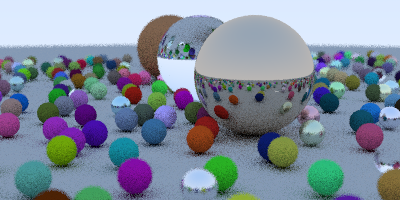
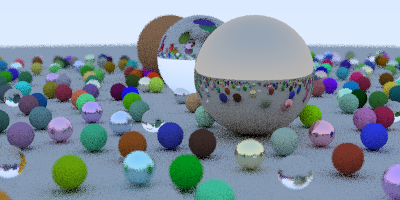
Trying to remove branching so the compiler would auto vectorize
Not working yet at least though. Maybe I need to do manual
intrinsics here. At least this is a step in the right direction.

diff --git a/src/hitdetection.cpp b/src/hitdetection.cpp
@@ -29,6 +29,36 @@ hit(const World& world, const Ray& ray, f32 tMin, f32 tMax, HitInfo& info) {
         f32 c = HMM_Dot(oc, oc) - sphere->radius * sphere->radius;
 
         f32 discriminant = b * b - a * c;
+        f32 discSqrt = sqrt(discriminant);
+        f32 temp;
+
+        temp = (-b - discSqrt) / a;
+        bool mask1 = (temp < closestSoFar && temp > tMin);
+        HitInfo tempInfo1 = tempInfo;
+        tempInfo1.t = temp;
+        tempInfo1.point = pointOnRay(ray, temp);
+        tempInfo1.normal = (tempInfo1.point - sphere->center) / sphere->radius;
+
+        temp = (-b + discSqrt) / a;
+        bool mask2 = (temp < closestSoFar && temp > tMin);
+        HitInfo tempInfo2 = tempInfo;
+        tempInfo2.t = temp;
+        tempInfo2.point = pointOnRay(ray, temp);
+        tempInfo2.normal = (tempInfo2.point - sphere->center) / sphere->radius;
+
+#if 1
+        tempInfo = (discriminant > 0)
+            ? (mask1
+                ? tempInfo1
+                : (mask2
+                    ? tempInfo2
+                    : tempInfo))
+            : tempInfo;
+#endif
+
+        hit = mask1 || mask2;
+#if 0
+        f32 discriminant = b * b - a * c;
         if (discriminant > 0) {
             f32 discSqrt = sqrt(discriminant);
 
@@ -49,13 +79,11 @@ hit(const World& world, const Ray& ray, f32 tMin, f32 tMax, HitInfo& info) {
                 goto end;
             }
         }
-
-    end:
-        if (hit) {
-            hitSomething = true;
-            closestSoFar = tempInfo.t;
-            info = tempInfo;
-        }
+#endif
+        hitSomething = hit || hitSomething;
+        closestSoFar = hit ? tempInfo.t : closestSoFar;
+        info = hit ? tempInfo : info;
     }
+
     return hitSomething;
 }
